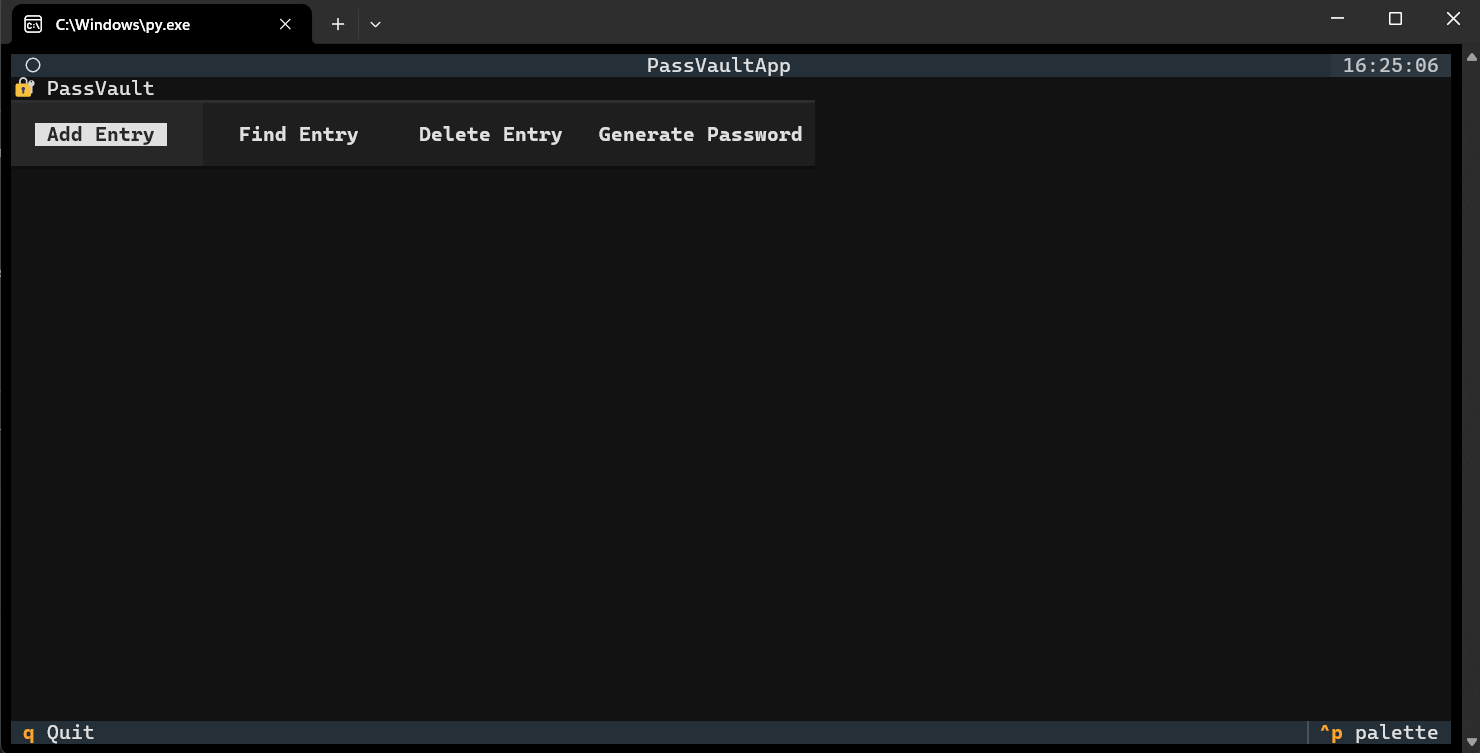
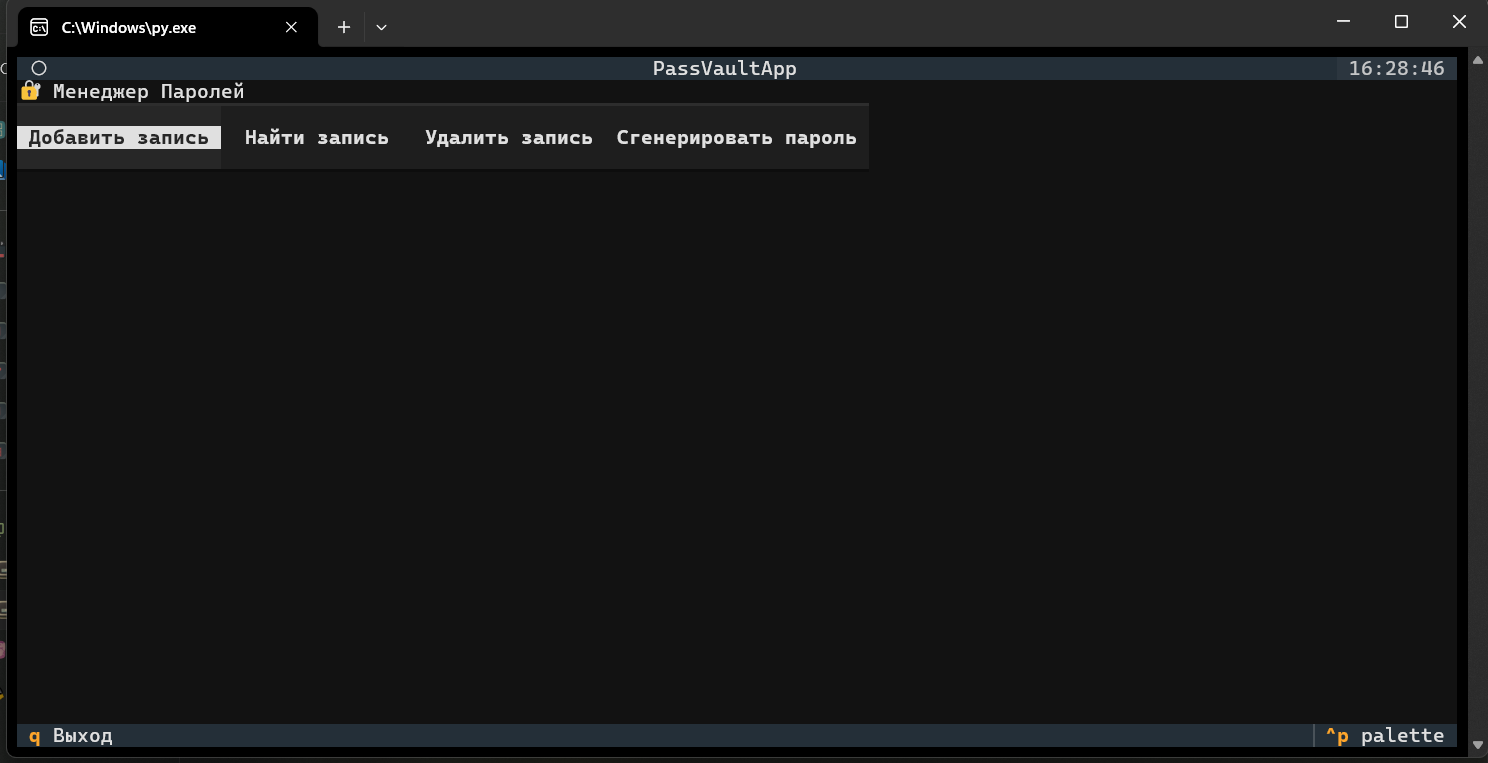
feat: добавлен скриншот для README

diff --git a/passvault.py b/passvault.py
@@ -1,137 +1,178 @@
-from textual.app import App, ComposeResult
-from textual.widgets import Header, Footer, Button, Static, Input, DataTable, Label
-from textual.containers import Vertical, Horizontal
-from cryptography.fernet import Fernet
-import os, string, random, json
+# Импорт необходимых компонентов из библиотек
+from textual.app import App, ComposeResult  # Основной класс приложения и результат компоновки
+from textual.widgets import Header, Footer, Button, Static, Input, DataTable, Label  # Виджеты интерфейса
+from textual.containers import Vertical, Horizontal  # Контейнеры для группировки элементов
+from cryptography.fernet import Fernet  # Для шифрования данных
+import os, string, random, json  # Стандартные модули: файлы, генерация паролей, JSON
+
 
 # ---- Настройки файлов ----
-KEY_FILE = "key.key"
-VAULT_FILE = "vault.json"
+KEY_FILE = "key.key"          # Файл с ключом шифрования
+VAULT_FILE = "vault.json"     # Файл с зашифрованным хранилищем паролей
+
 
 # ---- Ключ шифрования ----
+# Если файла с ключом нет или он пуст — генерируем новый ключ
 if not os.path.exists(KEY_FILE) or os.path.getsize(KEY_FILE) == 0:
-    key = Fernet.generate_key()
+    key = Fernet.generate_key()  # Генерируем криптографический ключ
     with open(KEY_FILE, "wb") as file:
-        file.write(key)
+        file.write(key)  # Сохраняем ключ в файл
 else:
     with open(KEY_FILE, "rb") as file:
-        key = file.read()
-fernet = Fernet(key)
+        key = file.read()  # Читаем существующий ключ
+fernet = Fernet(key)  # Создаём объект для шифрования/дешифрования
 
-# ---- База паролей ----
+
+# ---- Хранилище паролей ----
+# Если файла с хранилищем нет — создаём пустое зашифрованное хранилище
 if not os.path.isfile(VAULT_FILE):
     with open(VAULT_FILE, "wb") as vault:
+        # Шифруем пустой словарь {} и записываем в файл
         vault.write(fernet.encrypt(json.dumps({}).encode()))
 
-# ---- Работа с базой ----
+
+# ---- Функции для работы с хранилищем ----
+
 def load_vault():
+    """Загружает и расшифровывает хранилище паролей из файла."""
     with open(VAULT_FILE, "rb") as f:
-        return json.loads(fernet.decrypt(f.read()))
+        decrypted_data = fernet.decrypt(f.read())  # Расшифровываем данные
+        return json.loads(decrypted_data.decode())  # Преобразуем в словарь Python
+
 
 def save_vault(vault):
+    """Сохраняет словарь паролей в зашифрованном виде."""
+    encrypted_data = fernet.encrypt(json.dumps(vault).encode())  # Шифруем данные
     with open(VAULT_FILE, "wb") as f:
-        f.write(fernet.encrypt(json.dumps(vault).encode()))
+        f.write(encrypted_data)  # Записываем в файл
+
 
 def generate_password(length=10):
-    chars = string.ascii_letters + string.digits + "!@#$%^&*-_+="
-    return ''.join(random.choice(chars) for _ in range(length))
+    """Генерирует случайный пароль заданной длины."""
+    chars = string.ascii_letters + string.digits + "!@#$%^&*-_+="  # Допустимые символы
+    return ''.join(random.choice(chars) for _ in range(length))  # Собираем пароль
 
-# ---- Textual App ----
+
+# ---- Приложение Textual ----
 class PassVaultApp(App):
-    BINDINGS = [("q", "quit", "Quit")]
+    """Основное приложение-менеджер паролей с текстовым интерфейсом."""
+    
+    # Горячие клавиши
+    BINDINGS = [("q", "quit", "Выход")]  # Нажмите 'q' для выхода
 
     def compose(self) -> ComposeResult:
-        yield Header(show_clock=True)
-        with Vertical():
-            yield Static("🔐 PassVault", id="title")
-            with Horizontal():
-                yield Button("Add Entry", id="add")
-                yield Button("Find Entry", id="find")
-                yield Button("Delete Entry", id="delete")
-                yield Button("Generate Password", id="gen")
-            yield Vertical(id="form_container")
-            yield DataTable(id="vault_table")
-            yield Label("", id="status")
-        yield Footer()
+        """Создаёт пользовательский интерфейс."""
+        yield Header(show_clock=True)  # Верхняя строка с заголовком и часами
+        with Vertical():  # Основной вертикальный контейнер
+            yield Static("🔐 Менеджер Паролей", id="title")  # Заголовок приложения
+            with Horizontal():  # Горизонтальная панель кнопок
+                yield Button("Добавить запись", id="add")
+                yield Button("Найти запись", id="find")
+                yield Button("Удалить запись", id="delete")
+                yield Button("Сгенерировать пароль", id="gen")
+            yield Vertical(id="form_container")  # Контейнер для форм (ввода)
+            yield DataTable(id="vault_table")   # Таблица для отображения результатов
+            yield Label("", id="status")        # Статусная строка
+        yield Footer()  # Нижняя панель
 
     async def on_button_pressed(self, event: Button.Pressed) -> None:
-        form_container = self.query_one("#form_container")
-        table = self.query_one("#vault_table")
-        status = self.query_one("#status")
-        vault = load_vault()
+        """Обрабатывает нажатия на кнопки."""
+        form_container = self.query_one("#form_container")  # Область ввода
+        table = self.query_one("#vault_table")             # Таблица
+        status = self.query_one("#status")                 # Строка статуса
+        vault = load_vault()                               # Загружаем текущее хранилище
 
-        # ---- Главное меню ----
+        # ---- Главное меню: действия по нажатию основных кнопок ----
         if event.button.id in ["add", "find", "delete", "gen"]:
-            form_container.remove_children()  # очищаем форму перед новым действием
+            form_container.remove_children()  # Очищаем форму перед новым действием
 
             if event.button.id == "add":
-                service_input = Input(placeholder="Service", id="service")
-                login_input = Input(placeholder="Login", id="login")
-                password_input = Input(placeholder="Password (optional)", id="password")
-                save_btn = Button("Save", id="save_add")
+                # Форма добавления новой записи
+                service_input = Input(placeholder="Сервис (например: Gmail)", id="service")
+                login_input = Input(placeholder="Логин", id="login")
+                password_input = Input(placeholder="Пароль (необязательно)", id="password")
+                save_btn = Button("Сохранить", id="save_add")
                 await form_container.mount(service_input, login_input, password_input, save_btn)
 
             elif event.button.id == "find":
+                # Форма поиска записи
                 table.clear(columns=True)
-                table.add_columns("Login", "Password")
-                service_input = Input(placeholder="Service to find", id="find_service")
-                search_btn = Button("Search", id="search")
+                table.add_columns("Логин", "Пароль")
+                service_input = Input(placeholder="Имя сервиса для поиска", id="find_service")
+                search_btn = Button("Поиск", id="search")
                 await form_container.mount(service_input, search_btn)
 
             elif event.button.id == "delete":
-                service_input = Input(placeholder="Service to delete", id="del_service")
-                del_btn = Button("Delete Confirm", id="del_confirm")
+                # Форма удаления записи
+                service_input = Input(placeholder="Сервис для удаления", id="del_service")
+                del_btn = Button("Подтвердить удаление", id="del_confirm")
                 await form_container.mount(service_input, del_btn)
 
             elif event.button.id == "gen":
+                # Генерация пароля
                 pw = generate_password()
-                status.update(f"🔑 Generated password: {pw}")
+                status.update(f"🔑 Сгенерированный пароль: {pw}")
 
-        # ---- Кнопки внутри форм ----
+        # ---- Обработка действий внутри форм ----
         elif event.button.id == "save_add":
-            service = self.query_one("#service", Input).value
-            login = self.query_one("#login", Input).value
-            password = self.query_one("#password", Input).value
-            if not password.strip():
+            # Сохранение новой записи
+            service = self.query_one("#service", Input).value.strip()
+            login = self.query_one("#login", Input).value.strip()
+            password = self.query_one("#password", Input).value.strip()
+
+            # Если пароль не указан — генерируем его
+            if not password:
                 password = generate_password()
+
+            # Добавляем запись
             if service in vault:
+                # Если уже есть записи для этого сервиса
                 if isinstance(vault[service], list):
                     vault[service].append({"login": login, "password": password})
                 else:
+                    # Преобразуем одиночную запись в список
                     vault[service] = [vault[service], {"login": login, "password": password}]
             else:
+                # Новая запись
                 vault[service] = {"login": login, "password": password}
-            save_vault(vault)
-            status.update(f"✅ Added {service} with password {password}")
-            form_container.remove_children()
+
+            save_vault(vault)  # Сохраняем изменения
+            status.update(f"✅ Добавлено: {service} с паролем {password}")
+            form_container.remove_children()  # Очищаем форму
 
         elif event.button.id == "search":
-            service = self.query_one("#find_service", Input).value
+            # Поиск по сервису
+            service = self.query_one("#find_service", Input).value.strip()
             table.clear(columns=True)
-            table.add_columns("Login", "Password")
+            table.add_columns("Логин", "Пароль")
+
             if service in vault:
                 entries = vault[service]
                 if isinstance(entries, list):
-                    for v in entries:
-                        table.add_row(v["login"], v["password"])
+                    # Несколько записей
+                    for entry in entries:
+                        table.add_row(entry["login"], entry["password"])
                 else:
+                    # Одна запись
                     table.add_row(entries["login"], entries["password"])
-                status.update(f"✅ Found entries for {service}")
+                status.update(f"✅ Найдено: записи для {service}")
             else:
-                status.update(f"❌ Service {service} not found")
+                status.update(f"❌ Сервис '{service}' не найден")
             form_container.remove_children()
 
         elif event.button.id == "del_confirm":
-            service = self.query_one("#del_service", Input).value
+            # Удаление записи
+            service = self.query_one("#del_service", Input).value.strip()
             if service in vault:
                 del vault[service]
                 save_vault(vault)
-                table.clear()
-                status.update(f"✅ Deleted all entries for {service}")
+                table.clear()  # Очищаем таблицу
+                status.update(f"✅ Успешно удалено: {service}")
             else:
-                status.update(f"❌ Service {service} not found")
+                status.update(f"❌ Сервис '{service}' не найден")
             form_container.remove_children()
 
 
+# ---- Запуск приложения ----
 if __name__ == "__main__":
     PassVaultApp().run()
